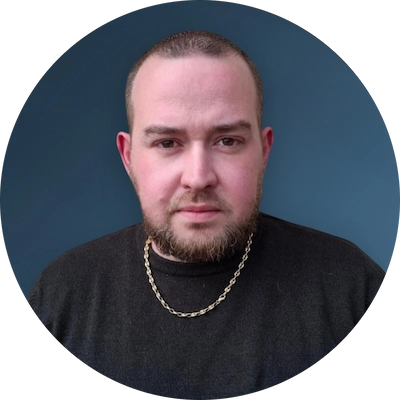
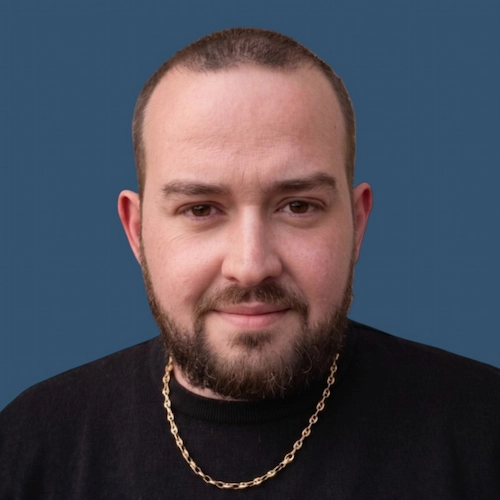
Changement de photo

diff --git a/index.html b/index.html
@@ -9,7 +9,7 @@
   <link rel="preconnect" href="https://fonts.gstatic.com" crossorigin>
   <link href="https://fonts.googleapis.com/css2?family=Poppins:ital,wght@0,100;0,200;0,300;0,400;0,500;0,600;0,700;0,800;0,900;1,100;1,200;1,300;1,400;1,500;1,600;1,700;1,800;1,900&family=Roboto+Slab:wght@100..900&family=Roboto:ital,wght@0,100..900;1,100..900&display=swap" rel="stylesheet">
   
-  <link rel="icon" type="image/webp" href="/img/logo-labrosse-anthony.webp" />
+  <link rel="icon" type="image/webp" href="./img/logo-labrosse-anthony.webp" />
   <meta name="viewport" content="width=device-width, initial-scale=1.0" />
   <title>Portfolio Anthony Labrosse | Intégrateur Web</title>
   <meta name="description" content="Portfolio d'Anthony Labrosse, intégrateur web passionné par la programmation. Découvrez mes projets et compétences." />
@@ -20,7 +20,7 @@
   <meta property="og:url" content="https://ton-nom-de-domaine.fr/" />
   <meta property="og:title" content="Portfolio Anthony Labrosse - Intégrateur Web" />
   <meta property="og:description" content="Découvrez mes projets web, mes compétences et mon parcours de reconversion professionnelle." />
-  <meta property="og:image" content="/img/photo-labrosse-anthony.webp" />
+  <meta property="og:image" content="./img/photo-labrosse-anthony.webp" />
 
   <meta name="twitter:card" content="summary_large_image" />
   <meta name="twitter:url" content="https://ton-nom-de-domaine.fr/" />